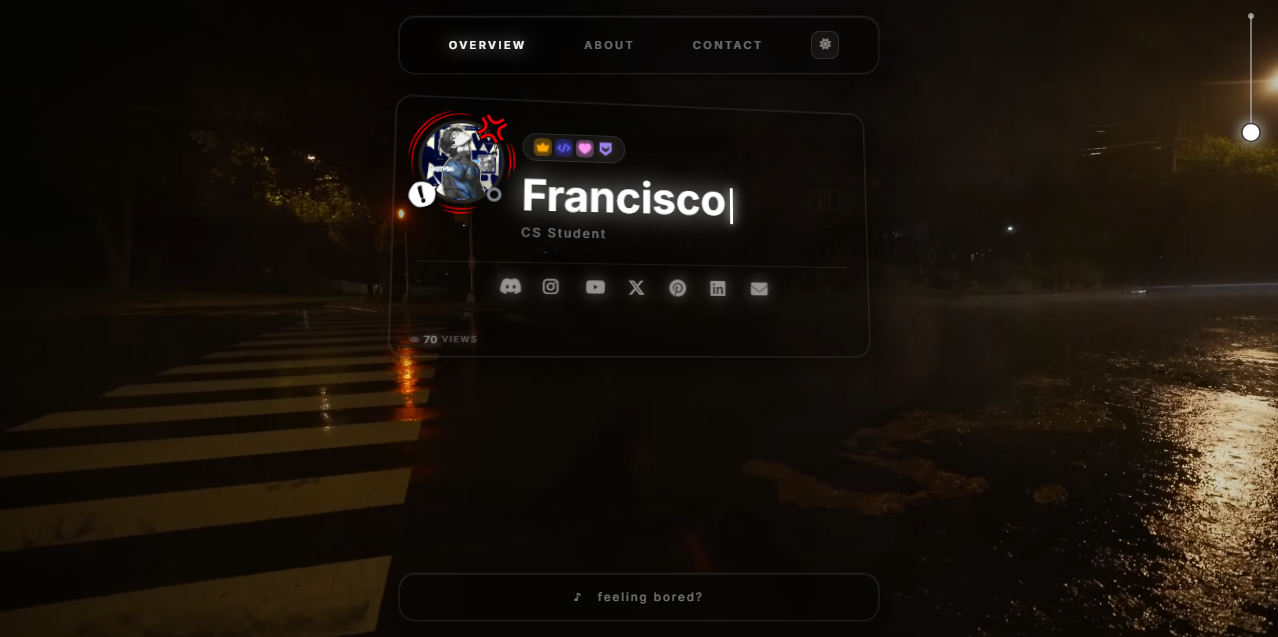
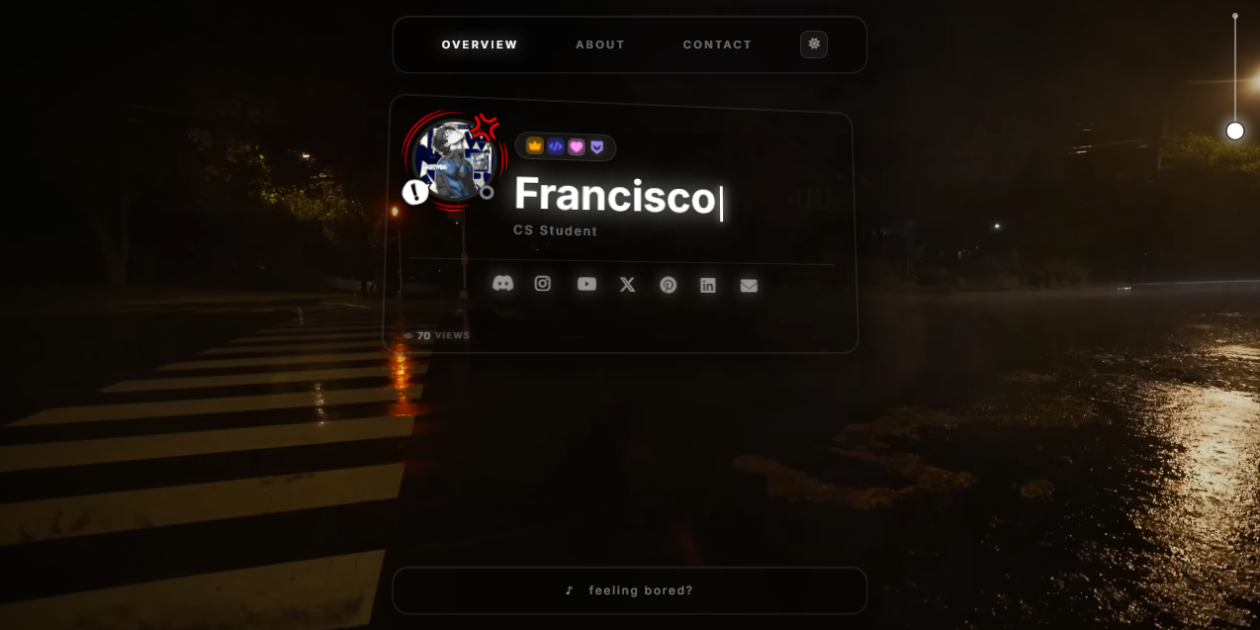
Final check

diff --git a/index.html b/index.html
@@ -1075,7 +1075,6 @@
 
         @media (min-width:701px) { #player-expand-hint { display:none!important; } }
         @media (max-width:319px) { #rope-canvas, #rope-hit { display:none!important; } }
-        /* Ensure rope renders above nav */
         #rope-canvas { z-index: 210 !important; }
         #rope-hit    { z-index: 211 !important; }
     </style>
@@ -1429,7 +1428,7 @@
                 <a href="https://x.com/ZetsuoNoShub"                   target="_blank" rel="noopener"><i class="fa-brands fa-x-twitter"></i></a>
                 <a href="https://pinterest.com/shubflexin"             target="_blank" rel="noopener"><i class="fab fa-pinterest"></i></a>
                 <a href="https://linkedin.com/in/c3o"                  target="_blank" rel="noopener"><i class="fab fa-linkedin"></i></a>
-                <a href="/cdn-cgi/l/email-protection#17647f627539676578717264647e7879767b57707a767e7b3974787a" rel="noopener"><i class="fas fa-envelope"></i></a>
+                <a href="/cdn-cgi/l/email-protection#7c0f14091e520c0e131a190f0f1513121d103c1b111d1510521f1311" rel="noopener"><i class="fas fa-envelope"></i></a>
             </div>
 
         </div>
@@ -1515,7 +1514,7 @@
 <!-- ══════════ SCRIPTS ══════════ -->
 
 <!-- ── 1. Song data + audio engine ── -->
-<script data-cfasync="false" src="/cdn-cgi/scripts/5c5dd728/cloudflare-static/email-decode.min.js"></script><script data-cfasync="false" src="/cdn-cgi/scripts/5c5dd728/cloudflare-static/email-decode.min.js"></script><script>
+<script>
 (function () {
     'use strict';
 
@@ -2583,7 +2582,6 @@ document.addEventListener('DOMContentLoaded', function () {
             if(window._syncPlayIcons) setTimeout(function(){ window._syncPlayIcons(!window._audioPaused()); }, 300);
         }
     } else {
-        // Bulletproof entry — works on all browsers/devices/iOS Safari
         var _entryFired = false;
         function _tryEnter(e) {
             if (_entryFired) return;
